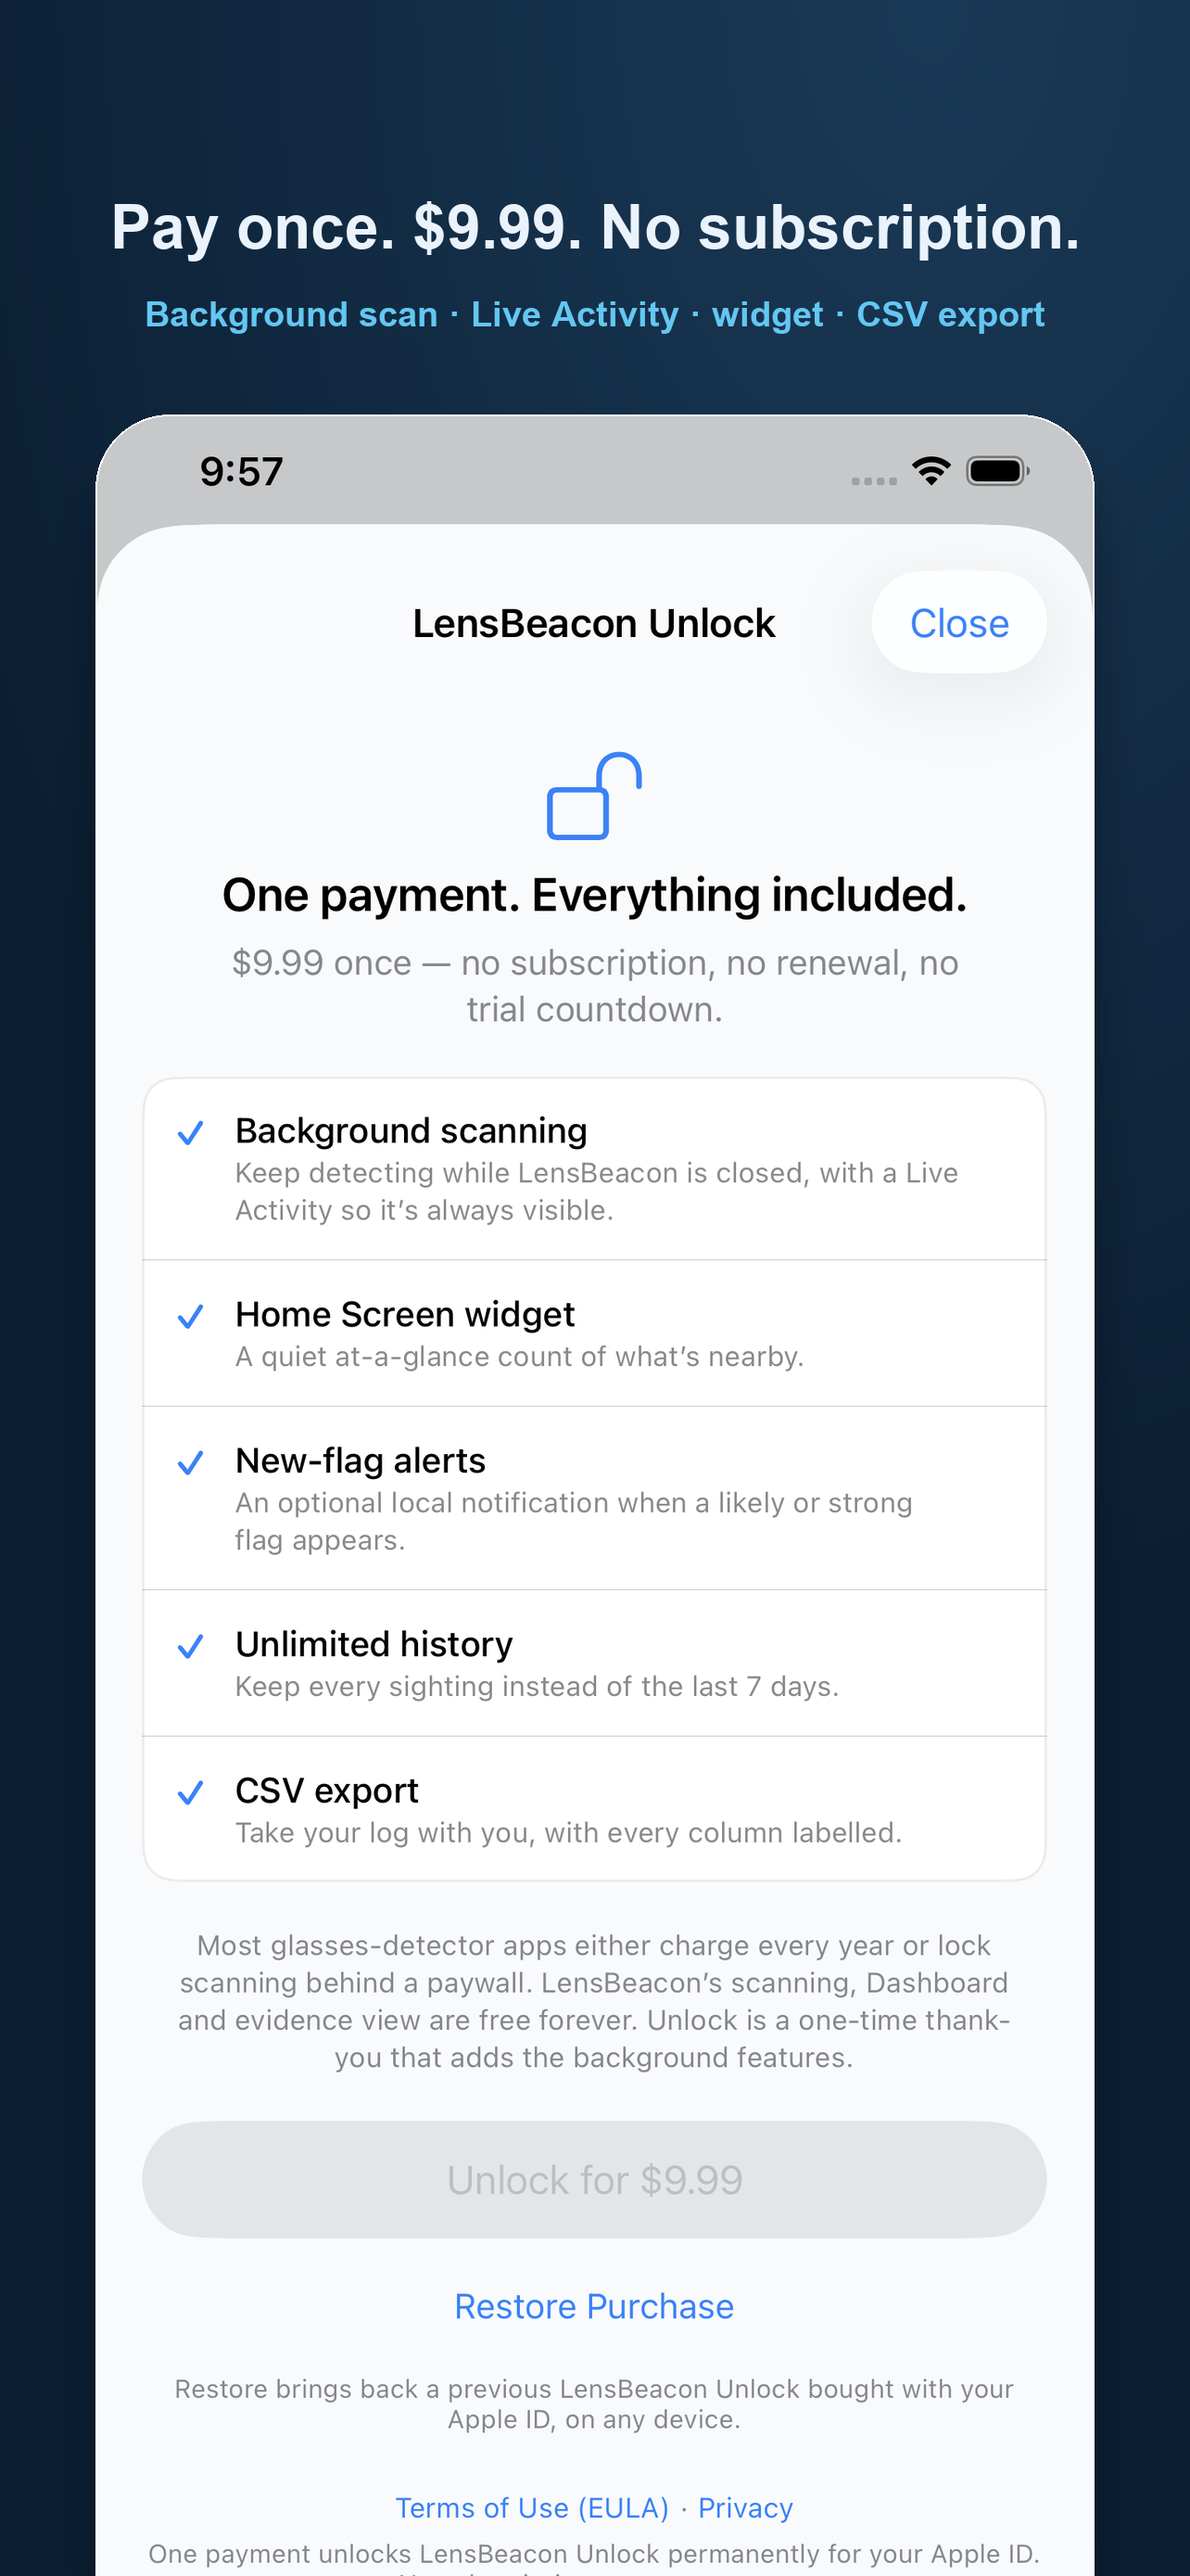
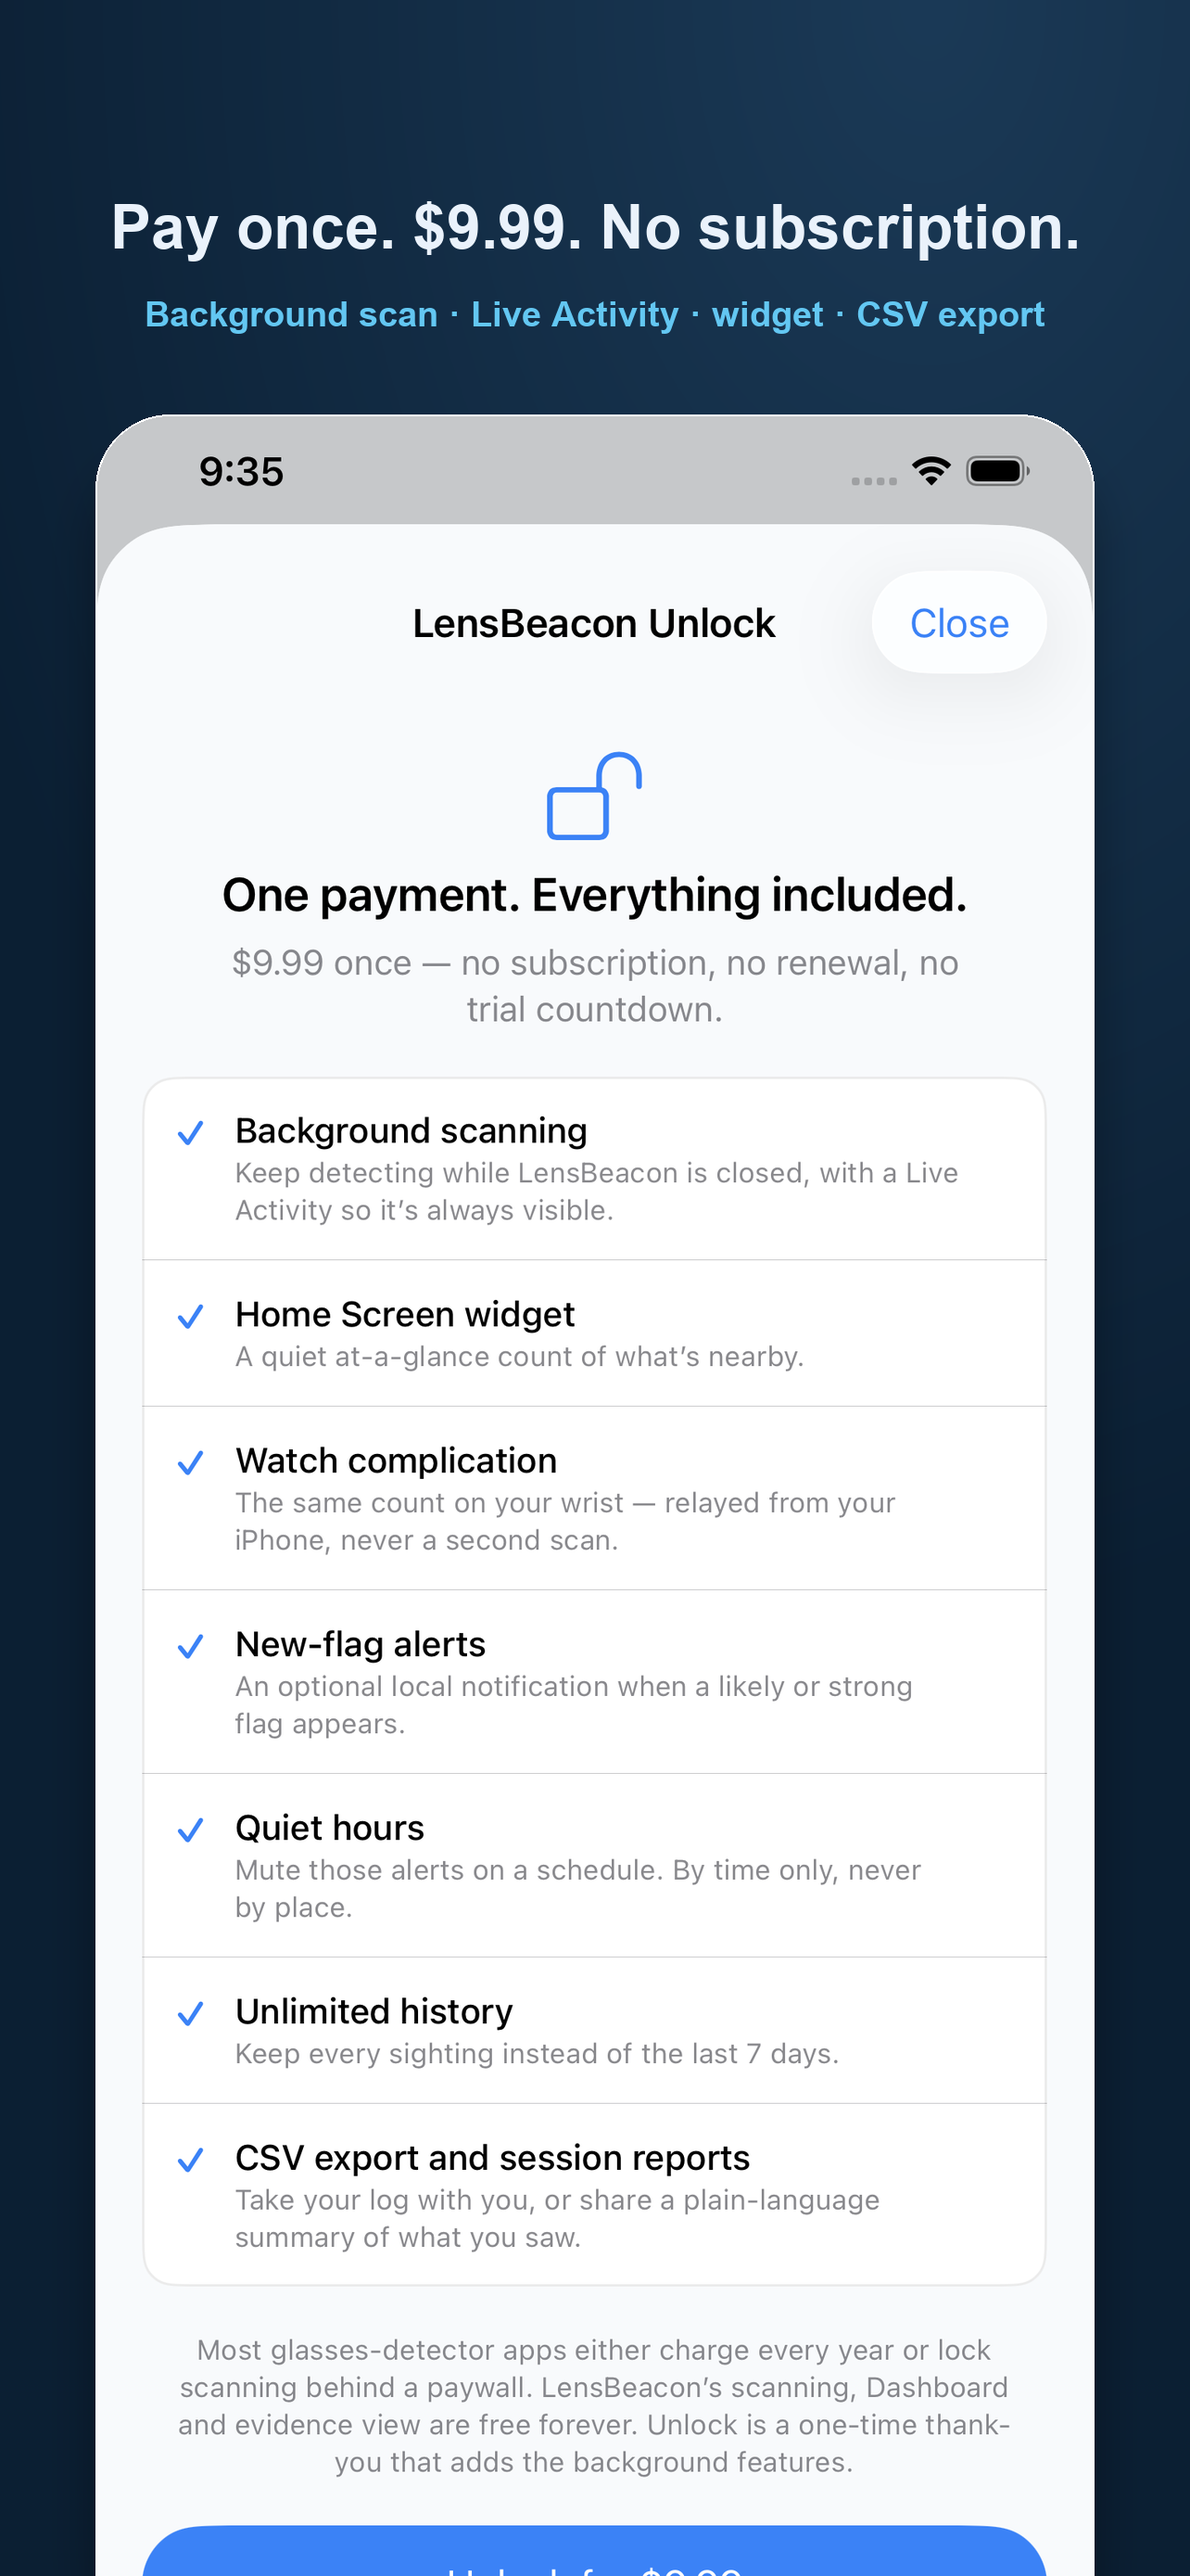
Recapture Unlock + Settings screenshots and refresh the website for the new features
The IAP feature list (UnlockView, plus the shorter promo blurbs in
SettingsView/DashboardView) now names all three new Unlock features
(watch complication, quiet hours, session reports) instead of just the
original five — a real product-copy gap, not just a screenshot problem.

Recaptured AppStore/screenshots/iphone-6.5/{07-unlock,08-settings}.png and
docs/assets/screens/frame-unlock.jpg from that updated UI. docs/index.html's
"Everywhere you look" card now says the watch complication is live and
relay-only. iPad screenshots for these two screens are still the pre-today
versions — a follow-up, not done in this pass.

Also fixed a real Swift 6 strict-concurrency warning introduced today:
WatchRelayReceiver.session(_:didReceiveApplicationContext:) was capturing
the non-Sendable [String: Any] dictionary across an actor hop. Now extracts
the one Sendable value (the Data payload) before hopping to @MainActor,
matching the pattern already used elsewhere (e.g. CaptureLog). Back to 0
warnings.

Changed region(s): [[0.1246, 0.5572, 0.9034, 1.0]]

diff --git a/docs/index.html b/docs/index.html
@@ -168,7 +168,7 @@ footer .fine{margin:12px auto 0; font-size:.78rem; color:var(--faint); max-width
       <div class="card"><div class="ic">&#128455;</div><h3>Doesn&rsquo;t cry wolf on a headset</h3><p>A Meta Quest or Apple Vision Pro is camera-capable but worn openly. LensBeacon lists it for what it is &mdash; never a covert-camera flag.</p></div>
       <div class="card"><div class="ic">&#128204;</div><h3>Mark your own, once</h3><p>Own a pair? Mark them and they stop raising alerts &mdash; keyed to the signature, so it survives Bluetooth address rotation and a relaunch.</p></div>
       <div class="card"><div class="ic">&#128246;</div><h3>How close, and how strong</h3><p>The signal strength in dBm, plainly explained, next to a rough &ldquo;arm&rsquo;s length&rdquo; sense of distance. Never a direction, never a name.</p></div>
-      <div class="card"><div class="ic">&#9202;</div><h3>Everywhere you look</h3><p>A Control Centre control, a &ldquo;scan for camera glasses&rdquo; Siri phrase, a Lock Screen Live Activity, a Home Screen widget, and an Apple Watch app.</p></div>
+      <div class="card"><div class="ic">&#9202;</div><h3>Everywhere you look</h3><p>A Control Centre control, a &ldquo;scan for camera glasses&rdquo; Siri phrase, a Lock Screen Live Activity, a Home Screen widget, and a live Apple Watch complication &mdash; relayed from your iPhone, never a second scan.</p></div>
     </div>
   </div>
 </section>

diff --git a/LensBeacon/Views/UnlockView.swift b/LensBeacon/Views/UnlockView.swift
@@ -27,11 +27,15 @@ struct UnlockView: View {
                         Divider()
                         feature("Home Screen widget", "A quiet at-a-glance count of what’s nearby.")
                         Divider()
+                        feature("Watch complication", "The same count on your wrist — relayed from your iPhone, never a second scan.")
+                        Divider()
                         feature("New-flag alerts", "An optional local notification when a likely or strong flag appears.")
+                        Divider()
+                        feature("Quiet hours", "Mute those alerts on a schedule. By time only, never by place.")
                         Divider()
                         feature("Unlimited history", "Keep every sighting instead of the last 7 days.")
                         Divider()
-                        feature("CSV export", "Take your log with you, with every column labelled.")
+                        feature("CSV export and session reports", "Take your log with you, or share a plain-language summary of what you saw.")
                     }
                     .background(Palette.card, in: RoundedRectangle(cornerRadius: 14, style: .continuous))
                     .overlay(RoundedRectangle(cornerRadius: 14, style: .continuous).strokeBorder(Palette.hairline))

diff --git a/LensBeaconWatch/WatchRelayReceiver.swift b/LensBeaconWatch/WatchRelayReceiver.swift
@@ -22,10 +22,8 @@ final class WatchRelayReceiver: NSObject {
         session.activate()
     }
 
-    private func store(_ context: [String: Any]) {
-        guard let data = context["dashboardSnapshot"] as? Data,
-              let snapshot = try? JSONDecoder.iso.decode(DashboardSnapshot.self, from: data)
-        else { return }
+    private func store(_ data: Data) {
+        guard let snapshot = try? JSONDecoder.iso.decode(DashboardSnapshot.self, from: data) else { return }
         snapshot.save()
         WidgetCenter.shared.reloadTimelines(ofKind: "LensBeaconComplication")
     }
@@ -38,7 +36,11 @@ extension WatchRelayReceiver: WCSessionDelegate {
         }
     }
 
+    /// Extracts the one `Sendable` value (`Data`) before hopping to the main actor —
+    /// `applicationContext` itself is `[String: Any]`, which strict concurrency
+    /// correctly refuses to send across the actor boundary as a whole.
     nonisolated func session(_ session: WCSession, didReceiveApplicationContext applicationContext: [String: Any]) {
-        Task { @MainActor in self.store(applicationContext) }
+        guard let data = applicationContext["dashboardSnapshot"] as? Data else { return }
+        Task { @MainActor in self.store(data) }
     }
 }

diff --git a/LensBeacon/Views/DashboardView.swift b/LensBeacon/Views/DashboardView.swift
@@ -451,7 +451,7 @@ private struct UnlockPromoCard: View {
             VStack(alignment: .leading, spacing: 8) {
                 Label("LensBeacon Unlock", systemImage: "lock.open")
                     .font(.headline)
-                Text("Background scanning, a Home Screen widget, a Live Activity, unlimited history and CSV export. One payment, no subscription.")
+                Text("Background scanning, a Home Screen widget, a live watch complication, unlimited history and CSV export. One payment, no subscription.")
                     .font(.subheadline)
                     .foregroundStyle(.secondary)
                 Button("See what’s included", action: action)

diff --git a/LensBeacon/Views/SettingsView.swift b/LensBeacon/Views/SettingsView.swift
@@ -78,7 +78,7 @@ struct SettingsView: View {
                     VStack(alignment: .leading, spacing: 4) {
                         Text("Get LensBeacon Unlock — \(unlock.displayPrice) once")
                             .font(.body.weight(.medium))
-                        Text("Background scanning, widget, Live Activity, unlimited history, CSV export. No subscription.")
+                        Text("Background scanning, widget, watch complication, unlimited history, CSV export. No subscription.")
                             .font(.caption)
                             .foregroundStyle(.secondary)
                     }
